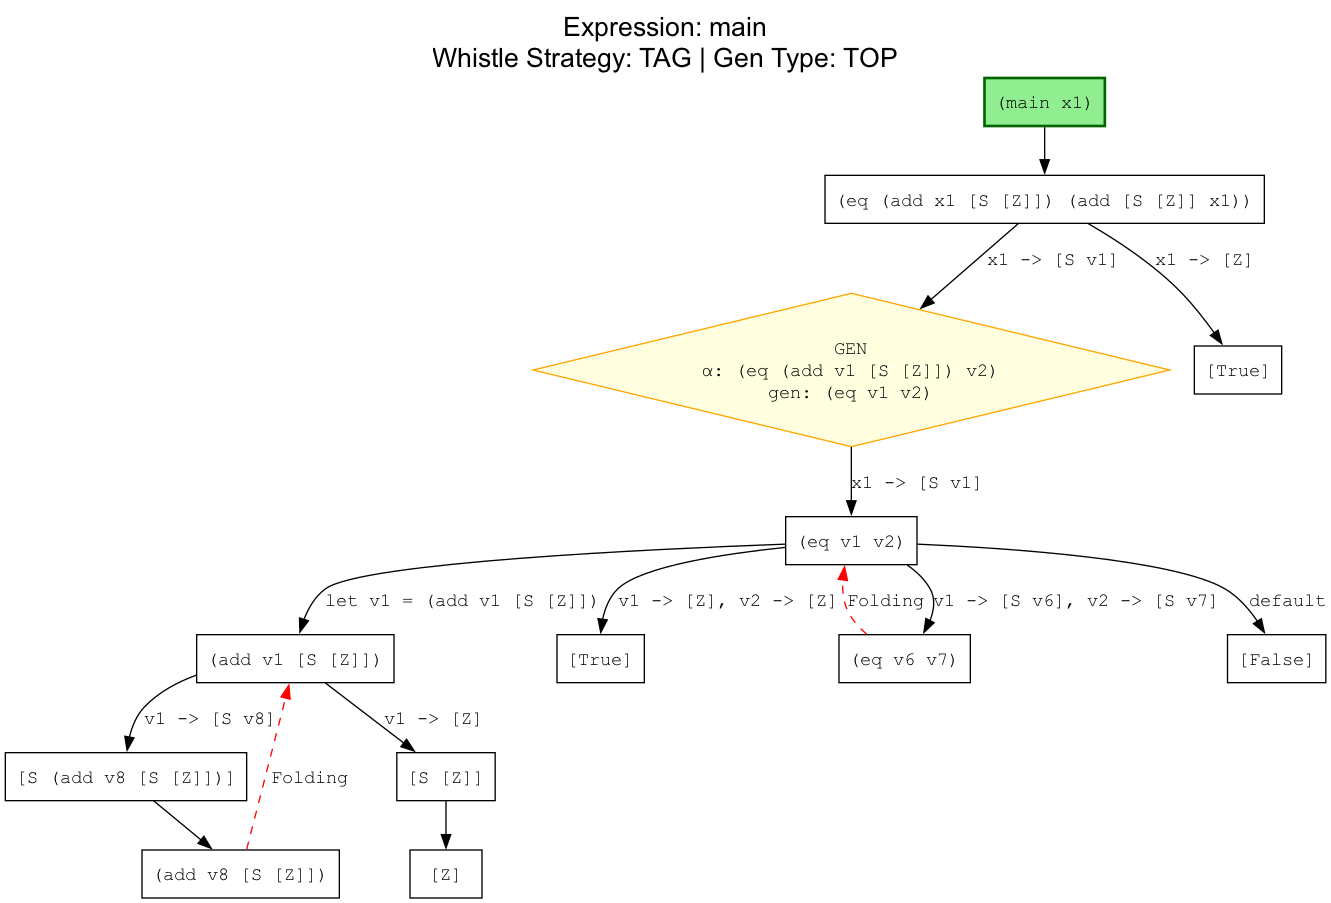
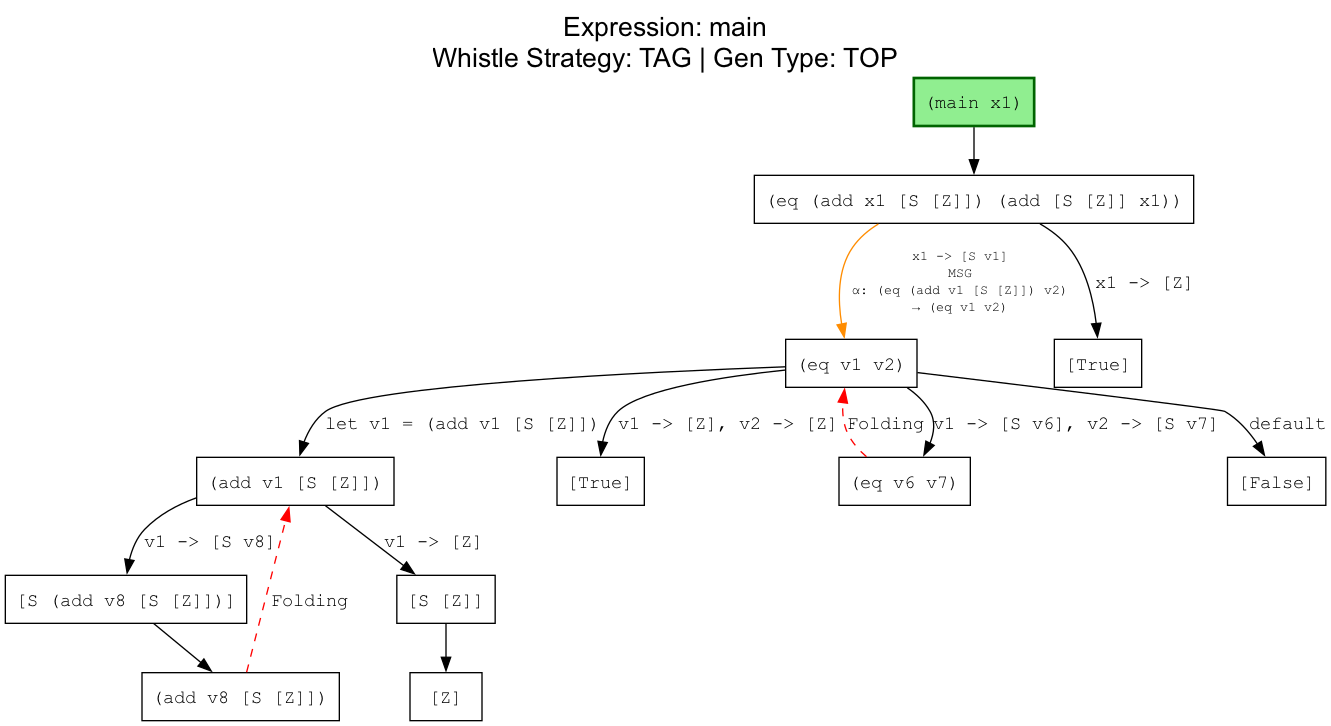
Обновление блока с MSG

diff --git a/sll/exporter.py b/sll/exporter.py
@@ -62,8 +62,7 @@ def to_dot(root: Node, dev_mode=False, start_expr=None) -> str:
     node_ids[id(root)] = f"n{counter}"
     counter += 1
 
-    # --- Стартовый узел и GEN-ромб корня ---
-    # Оба рендерятся здесь, чтобы выстроить цепочку: start → GEN → root
+    # --- Стартовый узел ---
     has_start = start_expr is not None
     has_root_gen = getattr(root, "gen_result", None) is not None and root.parent is None
     root_gen_rendered = has_root_gen  # пометим, чтобы не рисовать повторно в BFS
@@ -75,29 +74,15 @@ def to_dot(root: Node, dev_mode=False, start_expr=None) -> str:
             f'fillcolor="lightgreen", color="darkgreen", penwidth=2.0];'
         )
 
-    if has_root_gen:
-        aux_counter += 1
-        _root_gen_id = f"gen{aux_counter}"
-        a = to_tagged_str(root.gen_alpha) if root.gen_alpha else "?"
-        g = to_tagged_str(root.gen_result)
-        gen_label = (
-            "GEN\\n"
-            f"α: {a}\\n"
-            f"gen: {g}"
-        ).replace('"', '\\"')
-        lines.append(
-            f'    {_root_gen_id} [label="{gen_label}", shape=diamond, style="filled", '
-            f'fillcolor="lightyellow", color="orange"];'
-        )
-
     root_uid = node_ids[id(root)]
     if has_start and has_root_gen:
-        lines.append(f'    start -> {_root_gen_id} [];')
-        lines.append(f'    {_root_gen_id} -> {root_uid} [];')
+        # Информация об обобщении — подпись на стрелке, без отдельного ромба
+        a = to_tagged_str(root.gen_alpha) if root.gen_alpha else "?"
+        g = to_tagged_str(root.gen_result)
+        edge_label = f"MSG\\nα: {a}\\n→ {g}".replace('"', '\\"')
+        lines.append(f'    start -> {root_uid} [label="{edge_label}", color="darkorange", fontcolor="black", fontsize=10];')
     elif has_start:
         lines.append(f'    start -> {root_uid} [];')
-    elif has_root_gen:
-        lines.append(f'    {_root_gen_id} -> {root_uid} [];')
 
     while queue:
         node = queue.pop(0)
@@ -125,23 +110,7 @@ def to_dot(root: Node, dev_mode=False, start_expr=None) -> str:
 
         lines.append(f'    {uid} [label="{label}", shape=box{style_attr}];')
 
-        # 1b. GEN-ромб для самого узла (если он был обобщён in-place, как корень при TOP)
-        # Корень пропускаем — он уже отрендерен в блоке выше
-        if getattr(node, "gen_result", None) is not None and node.parent is None and not root_gen_rendered:
-            aux_counter += 1
-            gen_id = f"gen{aux_counter}"
-            a = to_tagged_str(node.gen_alpha) if node.gen_alpha else "?"
-            g = to_tagged_str(node.gen_result)
-            gen_label = (
-                "GEN\\n"
-                f"α: {a}\\n"
-                f"gen: {g}"
-            ).replace('"', '\\"')
-            lines.append(
-                f'    {gen_id} [label="{gen_label}", shape=diamond, style="filled", '
-                f'fillcolor="lightyellow", color="orange"];'
-            )
-            lines.append(f'    {gen_id} -> {uid} [];')
+        # GEN-ромб корня рендерится в блоке до BFS (как подпись на стрелке start→root)
 
         # 2. Ссылка назад (Folding)
         if node.back_link:
@@ -204,35 +173,21 @@ def to_dot(root: Node, dev_mode=False, start_expr=None) -> str:
                 from_id = drive_id
 
             if getattr(child, "gen_result", None) is not None:
-                aux_counter += 1
-                gen_id = f"gen{aux_counter}"
-
-                # Короткие строки (без тегов или с тегами — как тебе удобнее)
                 if dev_mode:
                     a = to_tagged_str(child.gen_alpha) if child.gen_alpha else "?"
                     g = to_tagged_str(child.gen_result)
                 else:
                     a = str(child.gen_alpha) if child.gen_alpha else "?"
                     g = str(child.gen_result)
-
-                gen_label = (
-                    "GEN\\n"
-                    f"α: {a}\\n"
-                    f"gen: {g}"
-                ).replace('"', '\\"')
-
-                # Ромбик Обобщения
+                gen_part = f"MSG\\nα: {a}\\n→ {g}".replace('"', '\\"')
+                combined = f"{edge_label}\\n{gen_part}" if edge_label else gen_part
                 lines.append(
-                    f'    {gen_id} [label="{gen_label}", shape=diamond, style="filled", '
-                    f'fillcolor="lightyellow", color="orange"];'
+                    f'    {from_id} -> {child_id} [label="{combined}", '
+                    f'color="darkorange", fontcolor="black", fontsize=10];'
                 )
-
-                branch_label = edge_label if is_branch_edge else ""
-                lines.append(f'    {from_id} -> {gen_id} [label="{branch_label}"];')
-                from_id = gen_id
-
-            dup_label = edge_label if is_branch_edge else edge_label
-            lines.append(f'    {from_id} -> {child_id} [label="{dup_label}"];')
+            else:
+                dup_label = edge_label if is_branch_edge else edge_label
+                lines.append(f'    {from_id} -> {child_id} [label="{dup_label}"];')
 
 
     lines.append("}")
